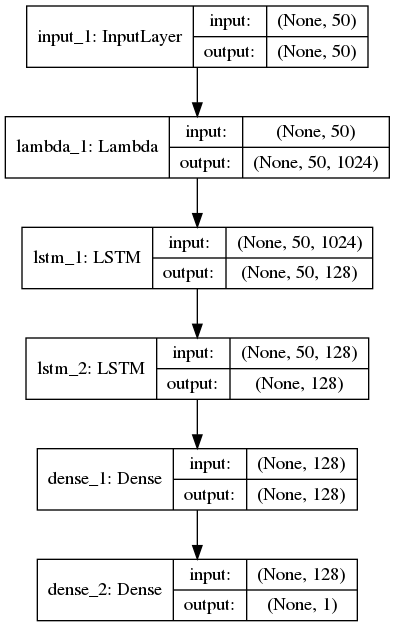
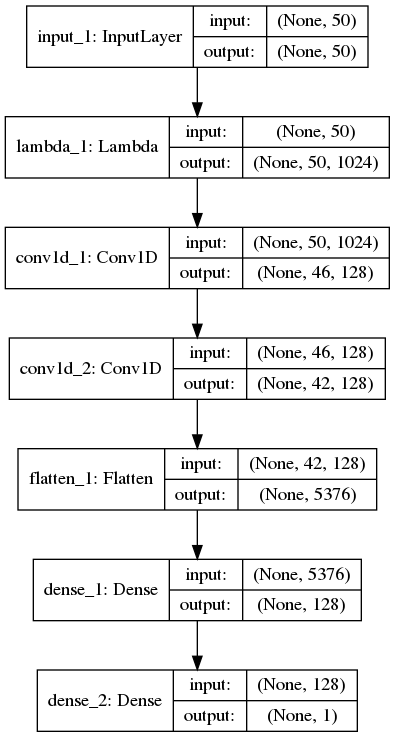
CNN is added to the code

Changed region(s): [[0.0, 0.0, 1.0, 1.0]]

diff --git a/ElmoTextCl.py b/ElmoTextCl.py
@@ -11,7 +11,7 @@ from keras import backend as K
 from keras.preprocessing.text import text_to_word_sequence
 from keras.preprocessing.text import Tokenizer
 from keras.models import Model, Input
-from keras.layers import LSTM, Lambda,Dropout, Dense, Embedding, Flatten
+from keras.layers import LSTM, Lambda,Dropout, Dense, Embedding, Flatten, Conv1D
 from keras.layers.merge import add
 from keras.datasets import imdb
 from sklearn.model_selection import train_test_split
@@ -74,9 +74,19 @@ def ELMO_Classification(Train, Label):
     def build_model():
         Inputs = Input(shape=(max_len,), dtype=tf.string)
         embedding_layer = Lambda(ElmoEmbedding, output_shape=(max_len, 1024))(Inputs)
-        lstm1 = LSTM(128,return_sequences=True )(embedding_layer)
-        lstm1 = LSTM(128, return_sequences=False)(lstm1)
-        dense = Dense(128, activation='relu')(lstm1)
+        # If you want to use Convolutional networks leave 4 lines below uncommented
+
+        cnn = Conv1D(128,5,activation='relu')(embedding_layer)
+        cnn = Conv1D(128,5,activation='relu')(cnn)
+        cnn = Flatten()(cnn)
+        dense = Dense(128, activation='relu')(cnn)
+
+        # If you want to use LSTM make three above lines commented and do uncomment three lines below
+
+        # lstm = LSTM(128,return_sequences=True )(embedding_layer)
+        # lstm = LSTM(128, return_sequences=False)(lstm)
+        # dense = Dense(128, activation='relu')(lstm)
+
         dense = Dense(1, activation='sigmoid')(dense)
         
         model = Model(input=[Inputs], outputs=dense)
